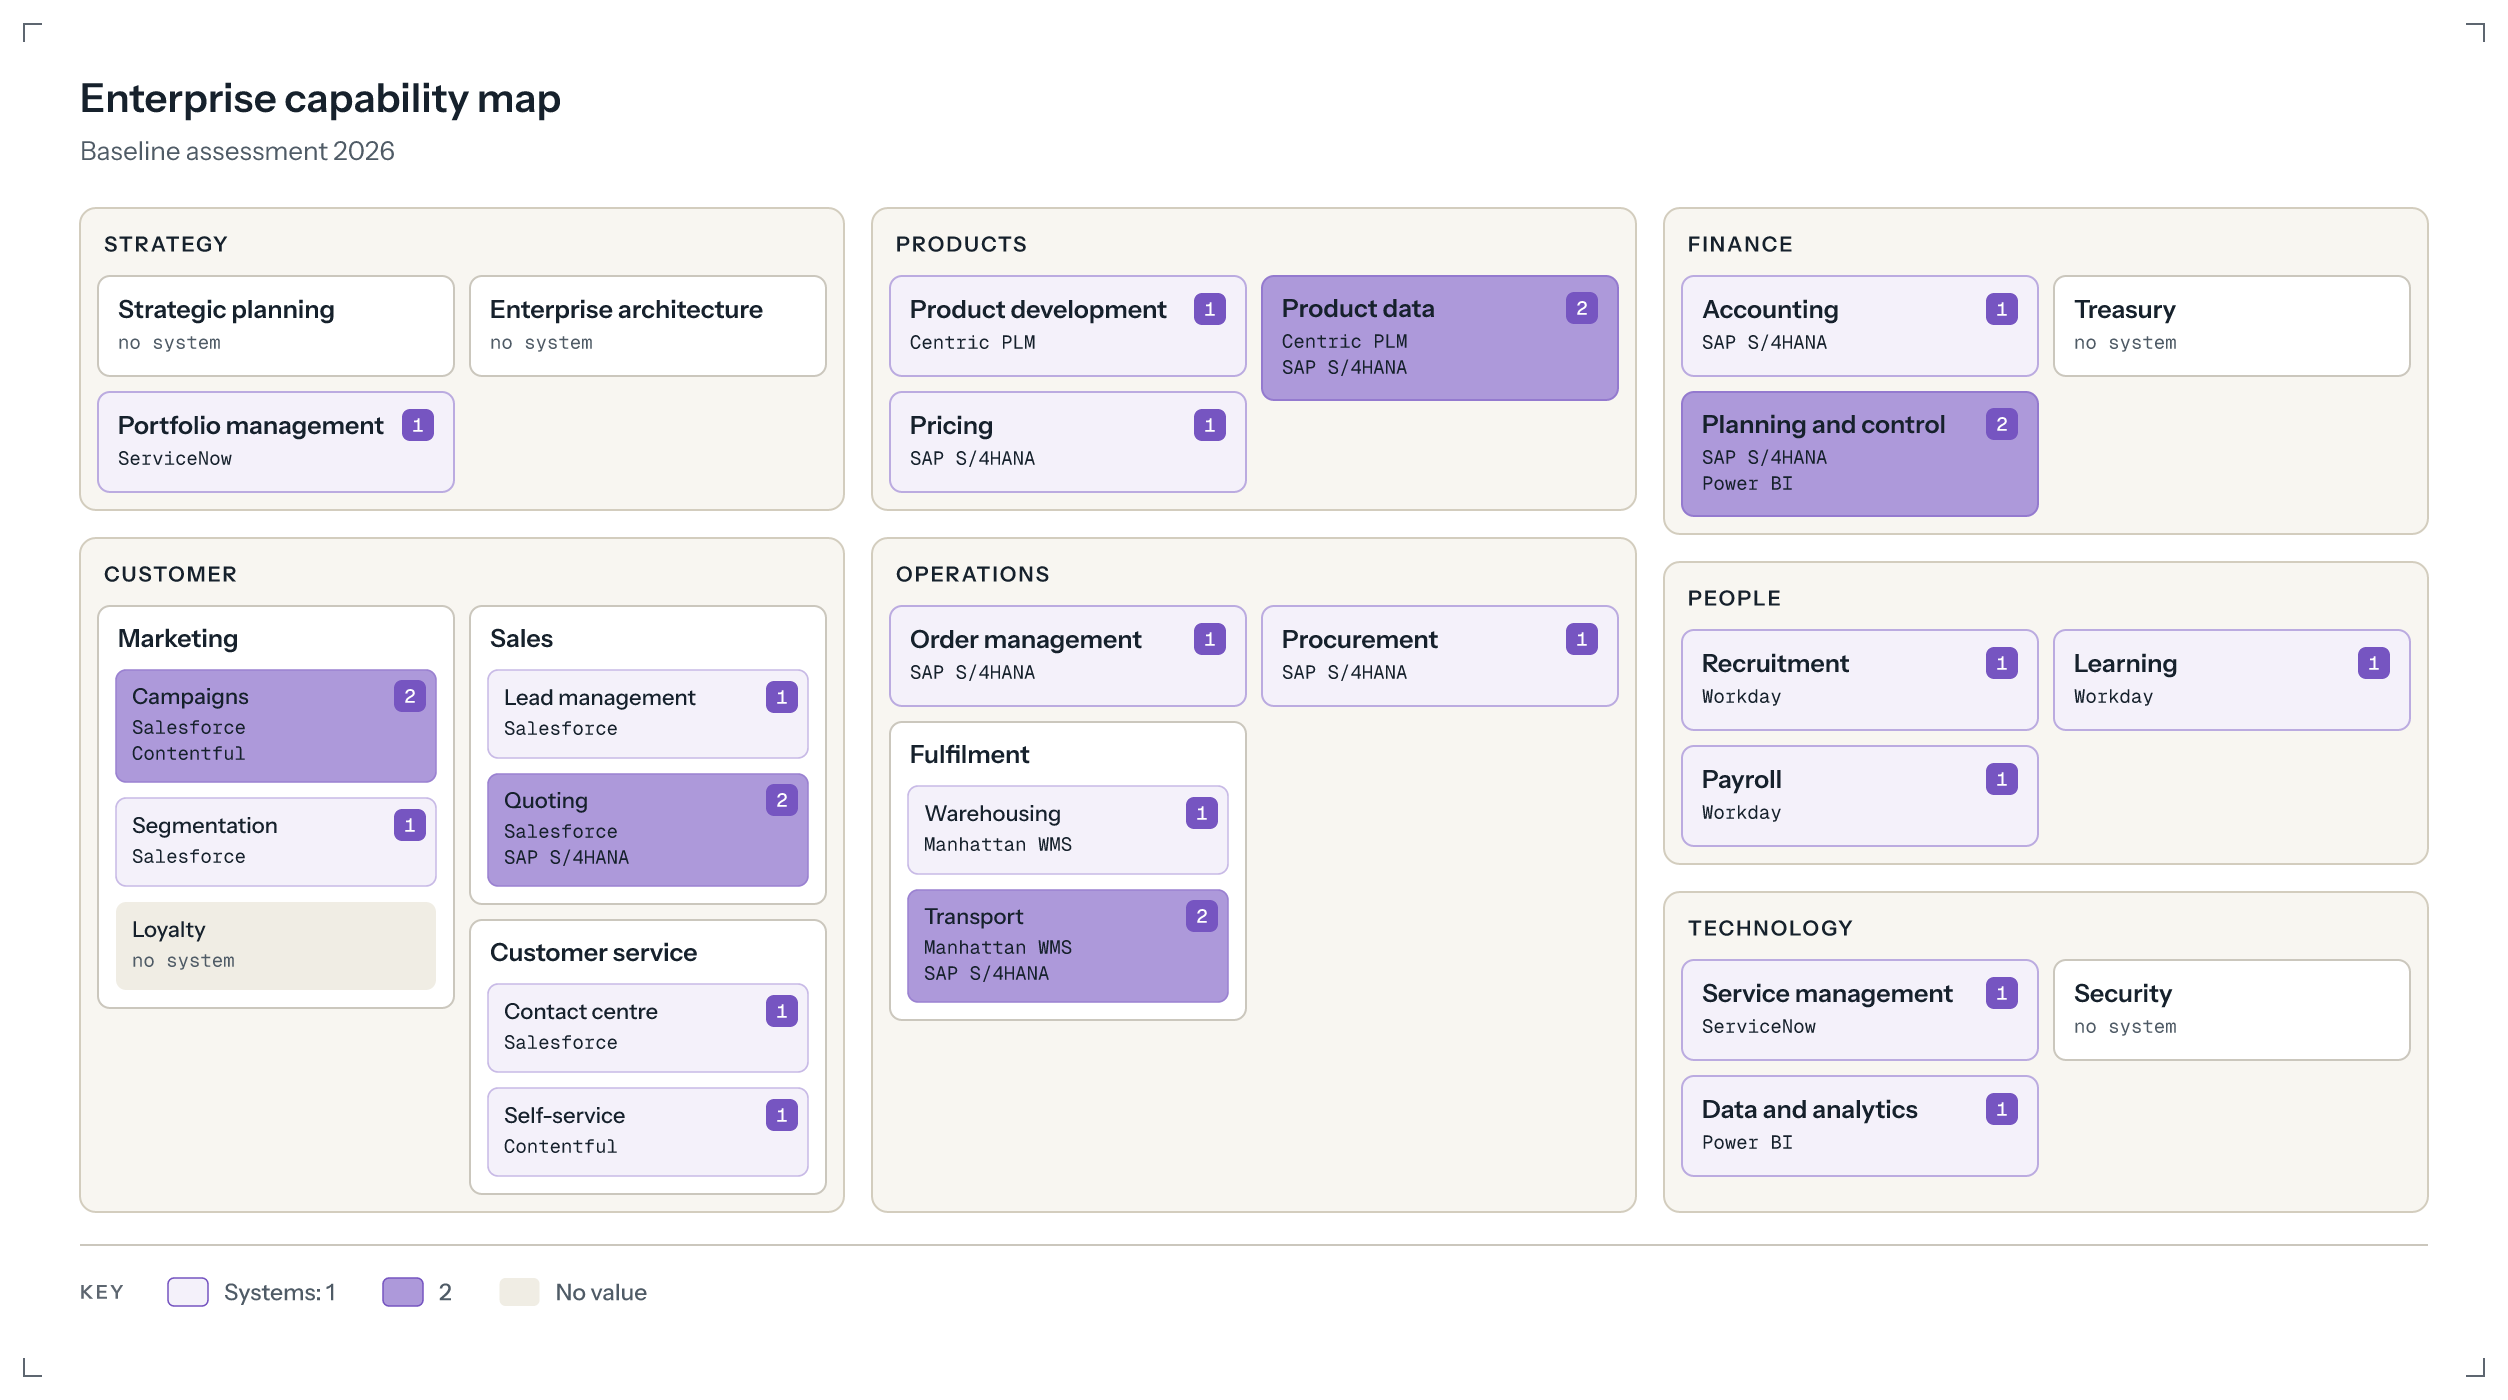
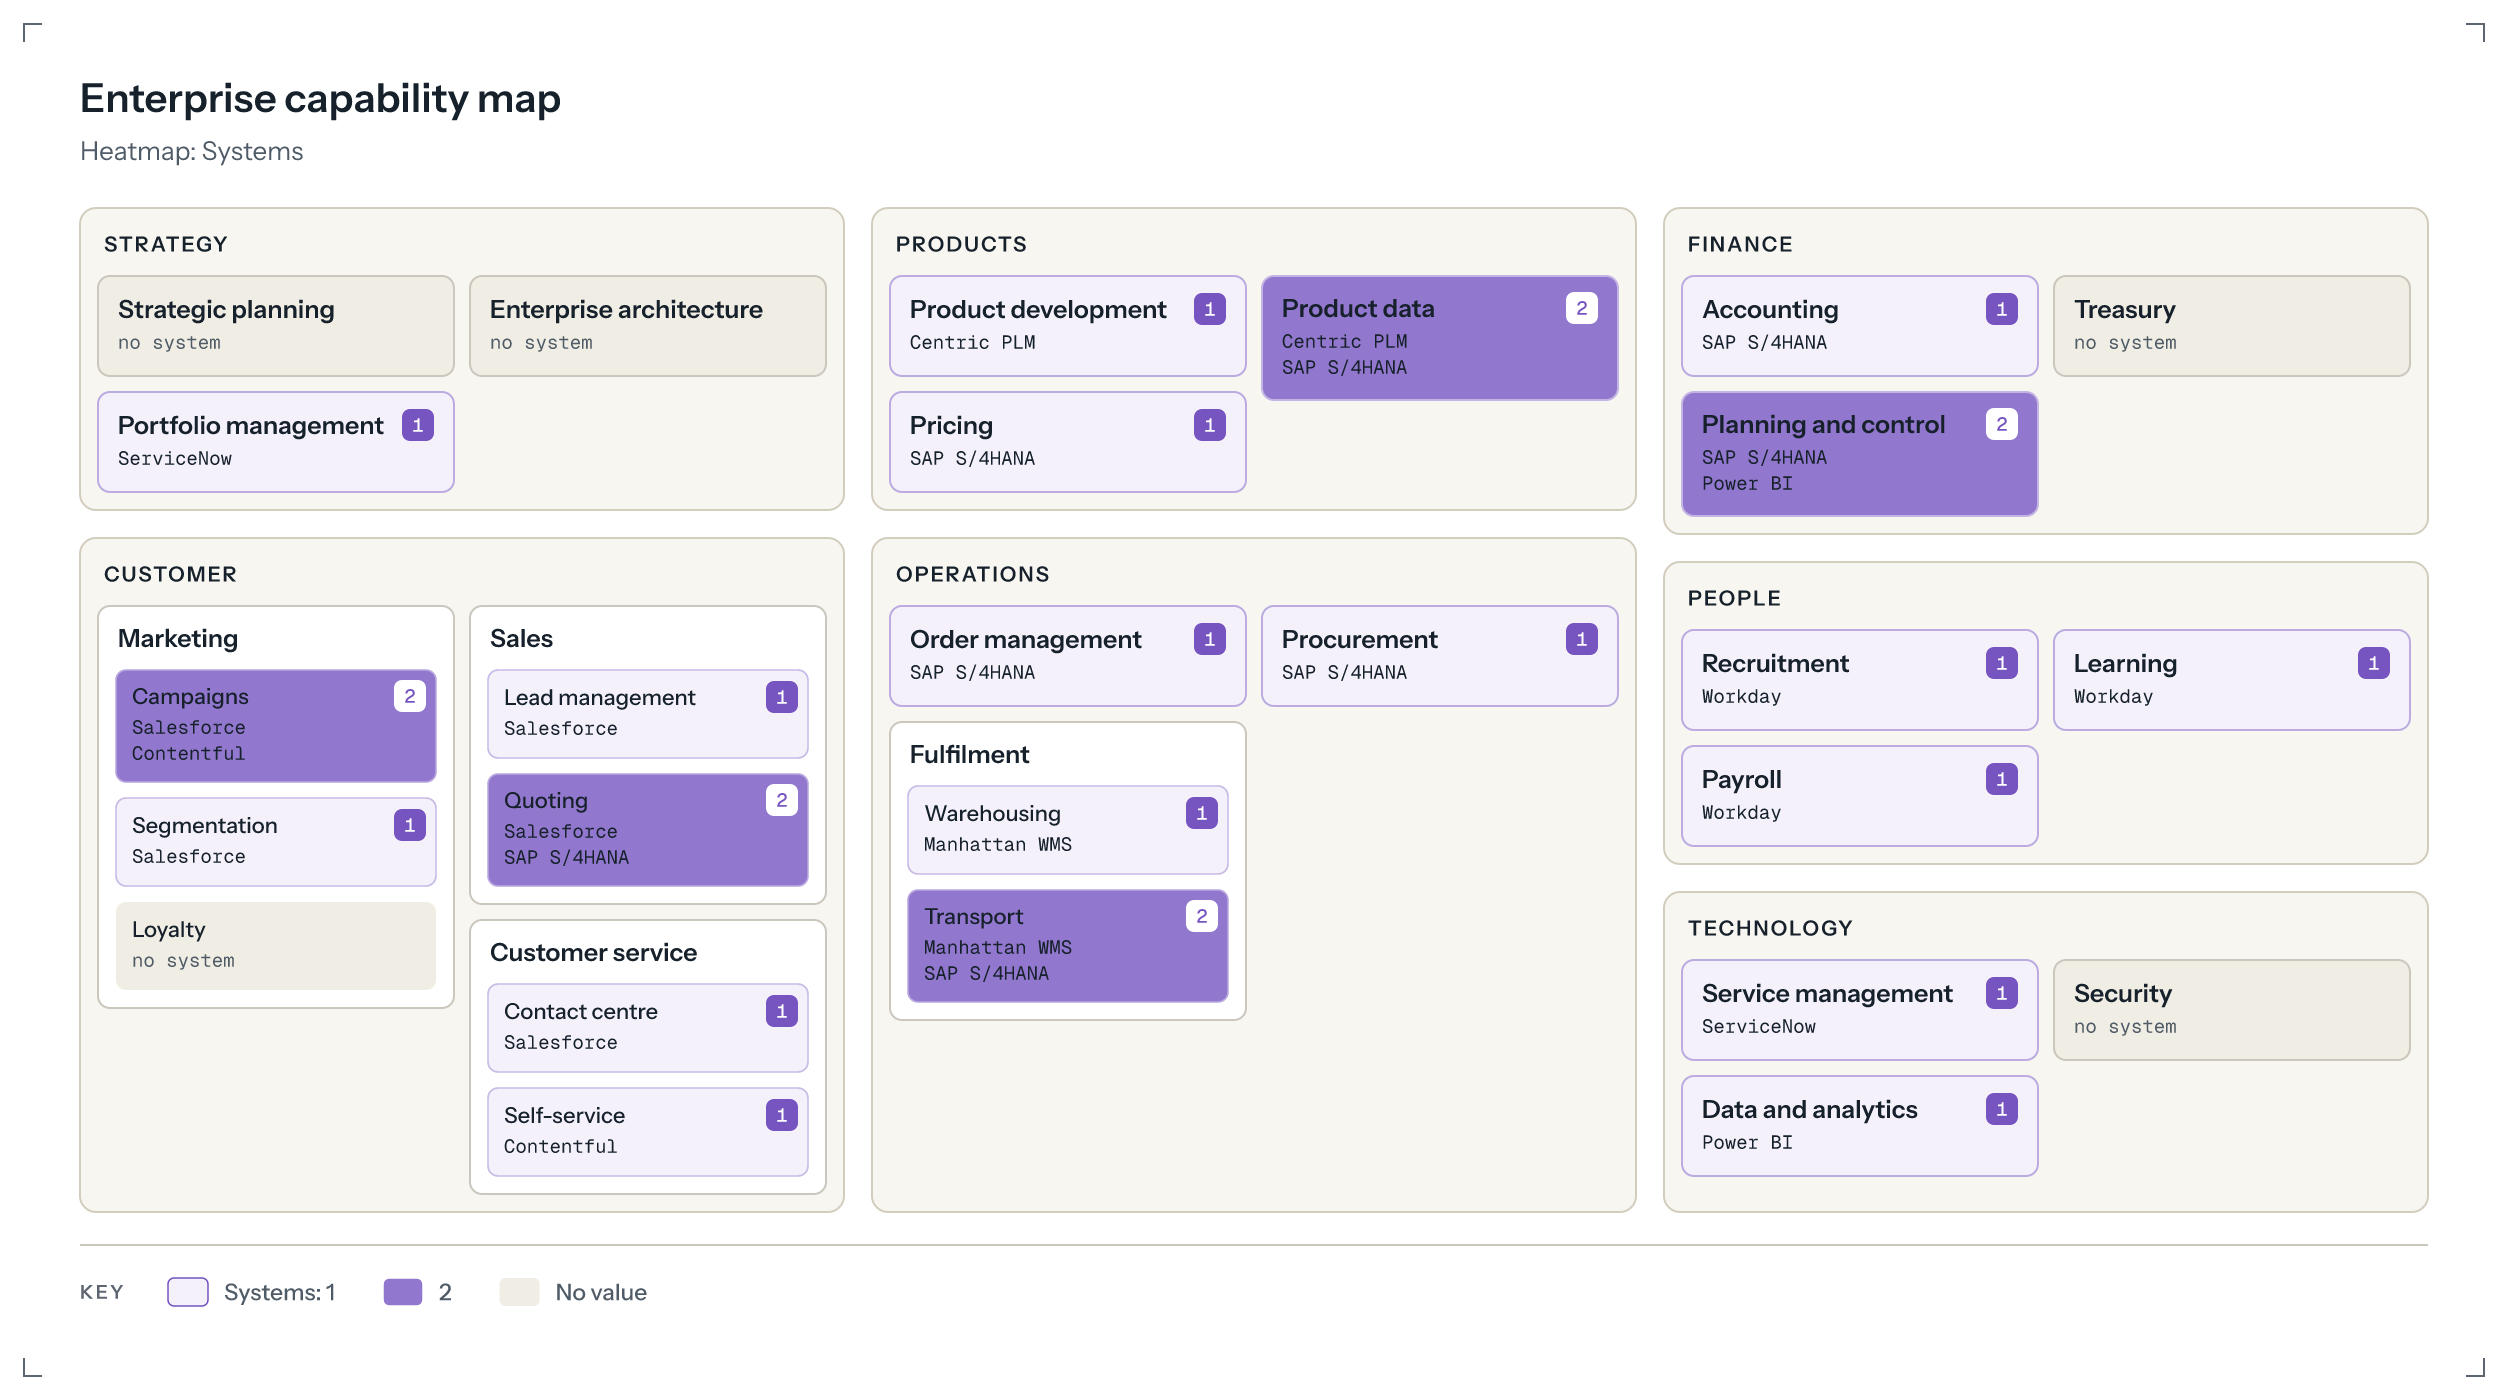
View subtitles: the default view keeps the file's, wherever it is in the list
Claude-Session: https://claude.ai/code/session_01NyzyPhzV2RHZLQ3eD8NAEL

diff --git a/types/journey/src/index.ts b/types/journey/src/index.ts
@@ -387,7 +387,7 @@ export function buildJourney(src: JourneySource, ctx: BuildContext): Graph {
 }
 
 /** The ways this journey can be drawn: a blueprint needs stage rows, a comparison a future journey. */
-export function journeyViewsOf(src: JourneySource): { name: JourneyView; title: string }[] {
+export function journeyViewsOf(src: JourneySource): { name: JourneyView; title: string; default?: boolean }[] {
   const steps = Object.values(src.steps ?? {});
   const staged = steps.some((s) => s && typeof s === 'object' && (s.frontstage != null || s.backstage != null || s.support != null));
   const future = !!src.future?.steps && Object.keys(src.future.steps).length > 0;
@@ -395,7 +395,7 @@ export function journeyViewsOf(src: JourneySource): { name: JourneyView; title: 
     { name: 'map' as const, title: 'Journey map' },
     { name: 'storyboard' as const, title: 'Storyboard' },
     ...(staged ? [{ name: 'blueprint' as const, title: 'Service blueprint' }] : []),
-    ...(future ? [{ name: 'compare' as const, title: 'Today and future' }] : []),
+    ...(future ? [{ name: 'compare' as const, title: 'Today and future', default: true }] : []),
   ];
 }
 

diff --git a/packages/core/src/diagram-type.ts b/packages/core/src/diagram-type.ts
@@ -42,9 +42,10 @@ export interface DiagramType<Source = any> {
   /**
    * Ways the type itself draws the same source (a journey as map, storyboard or blueprint). `--view`
    * and the editor's view picker choose one; build gets it as the source's `view`. `table`: the view is
-   * not elements and lines, so a focus asked for is drawn in the first view instead.
+   * not elements and lines, so a focus asked for is drawn in the first view instead. `default`: the one
+   * drawn when none is asked for (else the first); the file's subtitle is about that one.
    */
-  views?(source: Source): { name: string; title?: string; table?: boolean }[];
+  views?(source: Source): { name: string; title?: string; table?: boolean; default?: boolean }[];
   /** An entry written short, as the map the builder edits: a journey step `4` is `{ feel: 4 }`. Default: the kind or the label. */
   shorthand?(collection: string, value: unknown): Record<string, unknown> | undefined;
   /** Fields that name an entry of another collection, for the builder's pickers, where the usual ones do not fit: { in: ['phases'] }. */

diff --git a/packages/engine/src/index.ts b/packages/engine/src/index.ts
@@ -272,7 +272,7 @@ export async function render(text: string, opts: RenderOptions = {}): Promise<Re
   if (model?.view && !model.used) graph = filterGraph(graph, model.view, (path, message) => report(path, message, 'warning'));
   // Another of the type's own views than the one the file is written for: its subtitle is about that
   // one, so the view's name says what this drawing is (a heatmap of fit, not "run cost per capability").
-  const written = typeof rest.view === 'string' ? rest.view : ownViews?.[0]?.name;
+  const written = typeof rest.view === 'string' ? rest.view : (ownViews?.find((v) => v.default) ?? ownViews?.[0])?.name;
   const viewTitle = ownView && ownView !== written ? ownViews!.find((v) => v.name === ownView)?.title : undefined;
   if (viewTitle && graph.title) graph = { ...graph, subtitle: viewTitle };
   // A focus cuts what is left down to a neighbourhood: asked for from outside, else the view's own, else the diagram's.

diff --git a/types/capabilities/src/index.ts b/types/capabilities/src/index.ts
@@ -353,7 +353,8 @@ capabilities:
   freeNames: true,
   refKeys: { parent: ['capabilities'] },
   views(src) {
-    const out = [{ name: 'map', title: 'Map' }, ...heats(src.heat).map((h) => ({ name: h.by, title: `Heatmap: ${h.title ?? h.by}` }))];
+    // The first heat is what the file draws by default.
+    const out: { name: string; title: string; default?: boolean }[] = [{ name: 'map', title: 'Map' }, ...heats(src.heat).map((h, i) => ({ name: h.by, title: `Heatmap: ${heatScale(h, []).title}`, ...(i ? {} : { default: true }) }))];
     const any = (map: Record<string, Entry> | undefined): boolean => JSON.stringify(map ?? {}).includes('"systems"');
     if (any(src.capabilities) && !out.some((v) => v.name === 'systems')) out.push({ name: 'systems', title: 'Supporting systems' });
     return out.length > 1 ? out : [];

diff --git a/packages/engine/test/access.test.ts b/packages/engine/test/access.test.ts
@@ -191,3 +191,13 @@ describe('gained and lost access', () => {
     expect((await render('type: access\nview: packages\n', { fonts: 'none' })).empty).toBe(true);
   });
 });
+
+describe('subtitles of a type\'s own views', () => {
+  it('keeps the file\'s subtitle on the view drawn by default, also where that is not the first', async () => {
+    const text = fs.readFileSync(new URL('../../../examples/capabilities/enterprise.yaml', import.meta.url), 'utf8');
+    const plain = (await render(text, { fonts: 'none' })).graph!.subtitle;
+    expect(plain).toBe('Baseline assessment 2026');
+    expect((await render(text, { fonts: 'none', view: 'maturity' })).graph!.subtitle).toBe(plain);
+    expect((await render(text, { fonts: 'none', view: 'investment' })).graph!.subtitle).toBe('Heatmap: Investment');
+  });
+});

diff --git a/docs/capabilities.md b/docs/capabilities.md
@@ -81,7 +81,7 @@ heat:
     eliminate: { tone: rose, pattern: hatch, label: Switch off }
 ```
 
-`scale:` (sequential, diverging, categorical), `min:`/`max:`, `labels:` (words for numbers), `tone:` (hue of a sequential scale), `reverse:` (higher is worse) and `unit:` (what the numbers are in, for the key: `€`, `%`, `FTE`; read from the values when they share one) are the other keys. A view other than the default one is subtitled by its own name (Heatmap: Fit), so the diagram's `subtitle:` belongs to the first. **Several heats are several views**: `heat: [maturity, investment]` gives the views `maturity` and `investment` (plus `map`, without colour); the first is the default drawing.
+`scale:` (sequential, diverging, categorical), `min:`/`max:`, `labels:` (words for numbers), `tone:` (hue of a sequential scale), `reverse:` (higher is worse) and `unit:` (what the numbers are in, for the key: `€`, `%`, `FTE`; read from the values when they share one) are the other keys. A view other than the default one is subtitled by its own name (Heatmap: Fit), so the diagram's `subtitle:` belongs to the default drawing. **Several heats are several views**: `heat: [maturity, investment]` gives the views `maturity` and `investment` (plus `map`, without colour); the first is the default drawing.
 
 ![The investment view](capabilities/investment.png)
 
